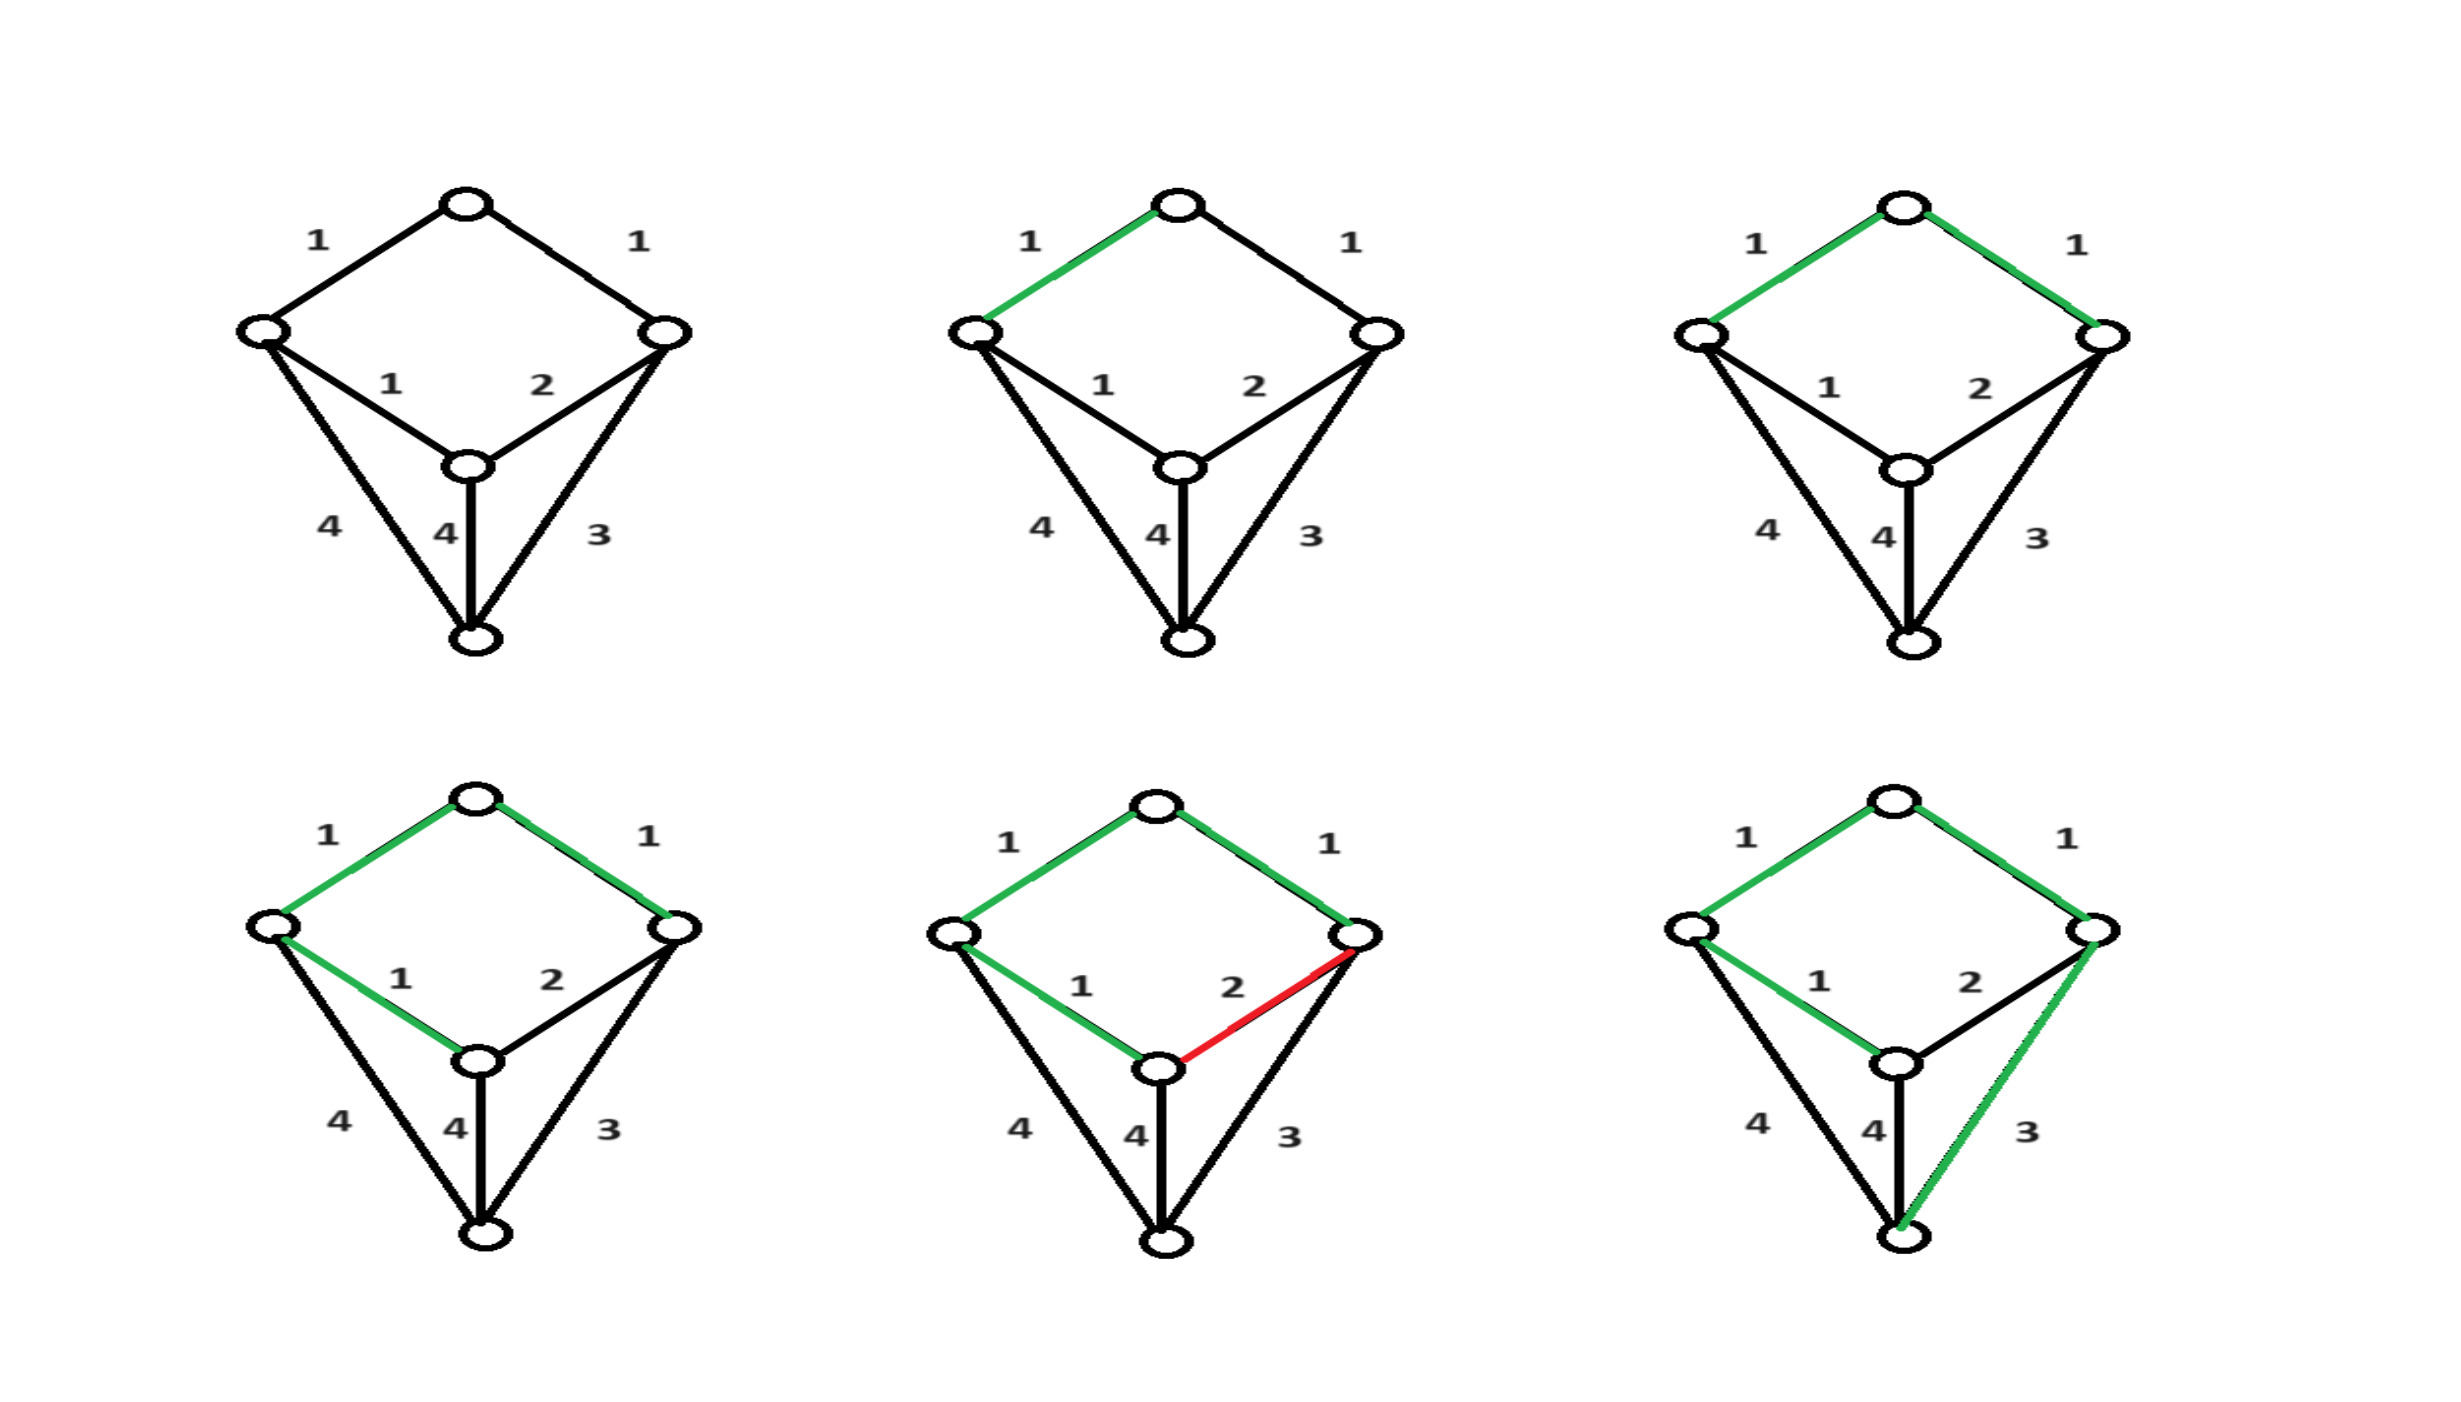
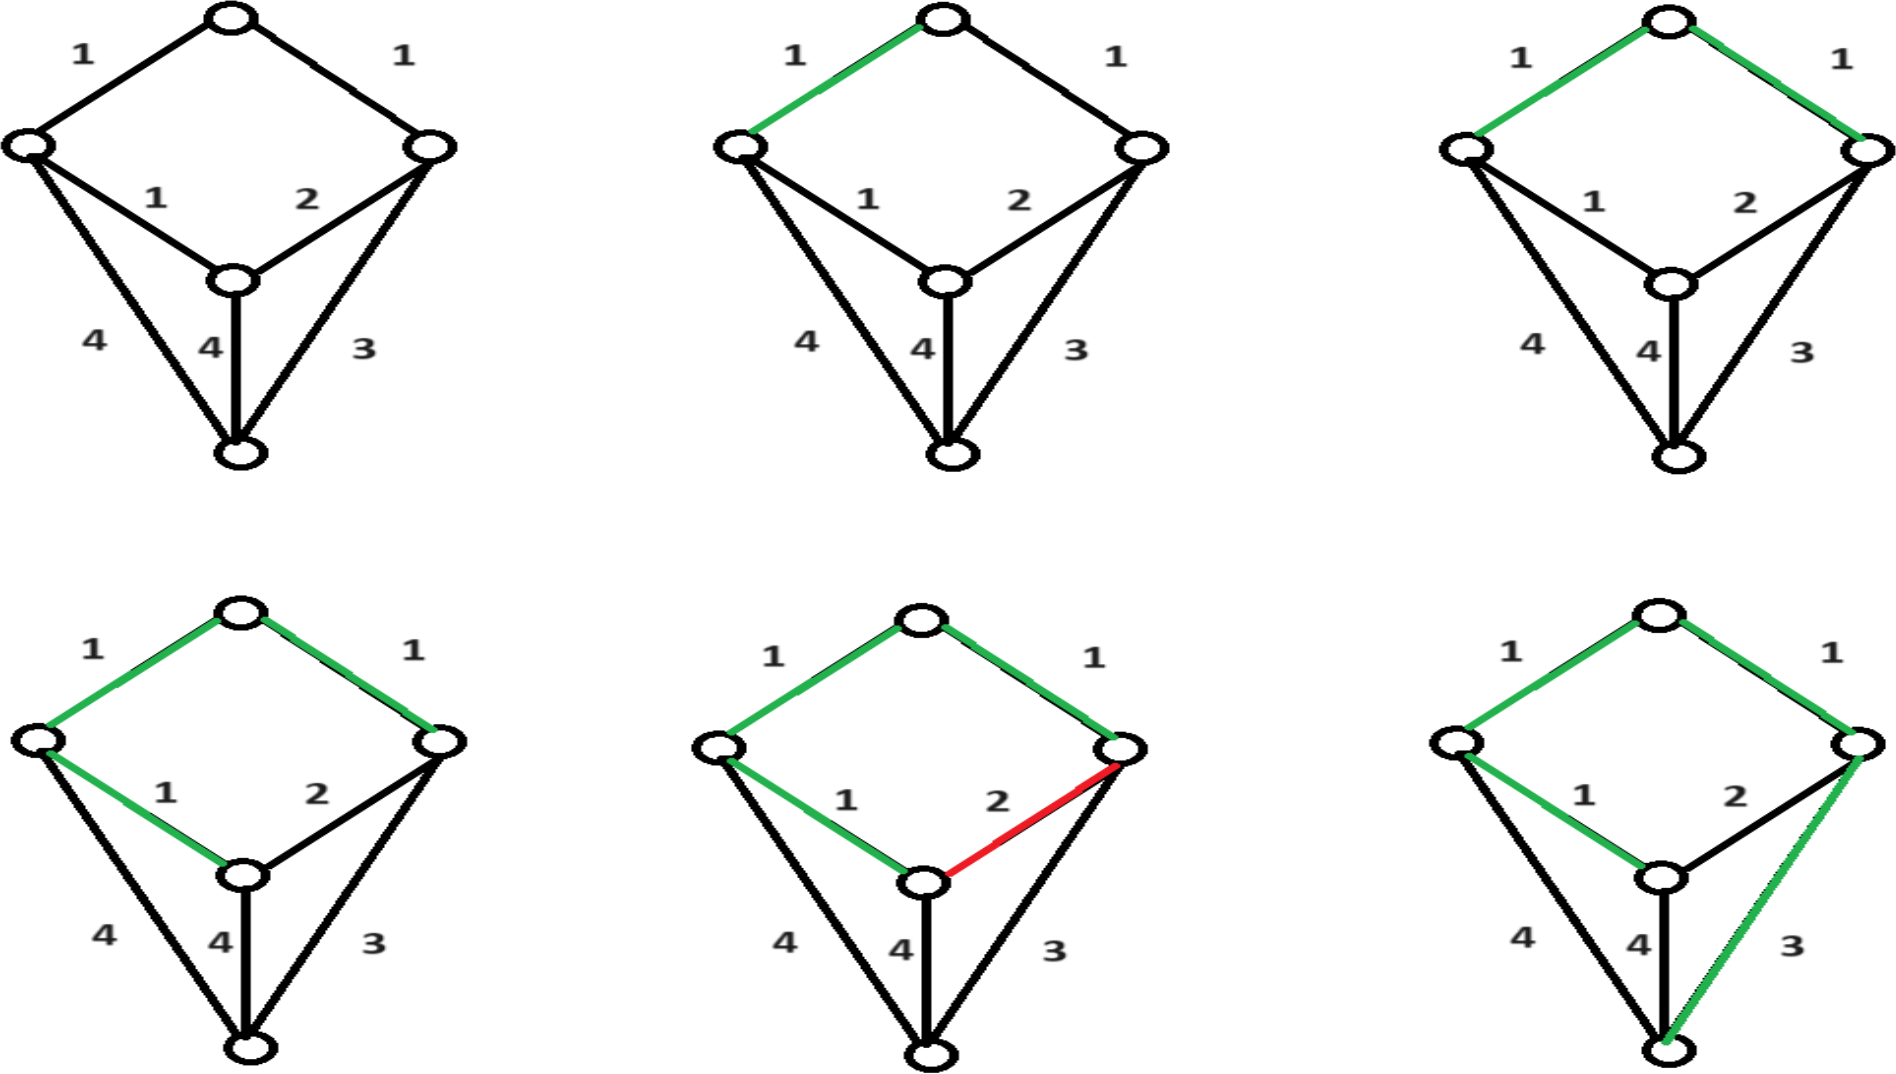
fix overwide figure
Your image file had a big white margin, so you needed to make it too wide (an overfull hbox error) to make the text readable - cropping out the whitespace makes the spacing behave better, and we can pick a \textwidth multiplier that doesn't overflow

diff --git a/lecture6.tex b/lecture6.tex
@@ -122,7 +122,7 @@ The second algorithm we consider for finding MSTs is \emph{Kruskal's algorithm},
 
 \begin{figure}
   \centering
-  \includegraphics[width=1.1\textwidth]{graphics/L6_prim_kruskal_dijkstra/kruskal.png}
+  \includegraphics[width=0.9\textwidth]{graphics/L6_prim_kruskal_dijkstra/kruskal.png}
   \caption[][0cm]{An illustration of how Kruskal's algorithm finds a minimal spanning tree in a similar graph as the one in Figure \ref{fig:prims_algorithm}, which illustrated Prim's algorithm. Notice that adding the edge with weight 2 would create a loop and thus it is skipped.}
   \label{fig:kruskals_algorithm}
 \end{figure}
